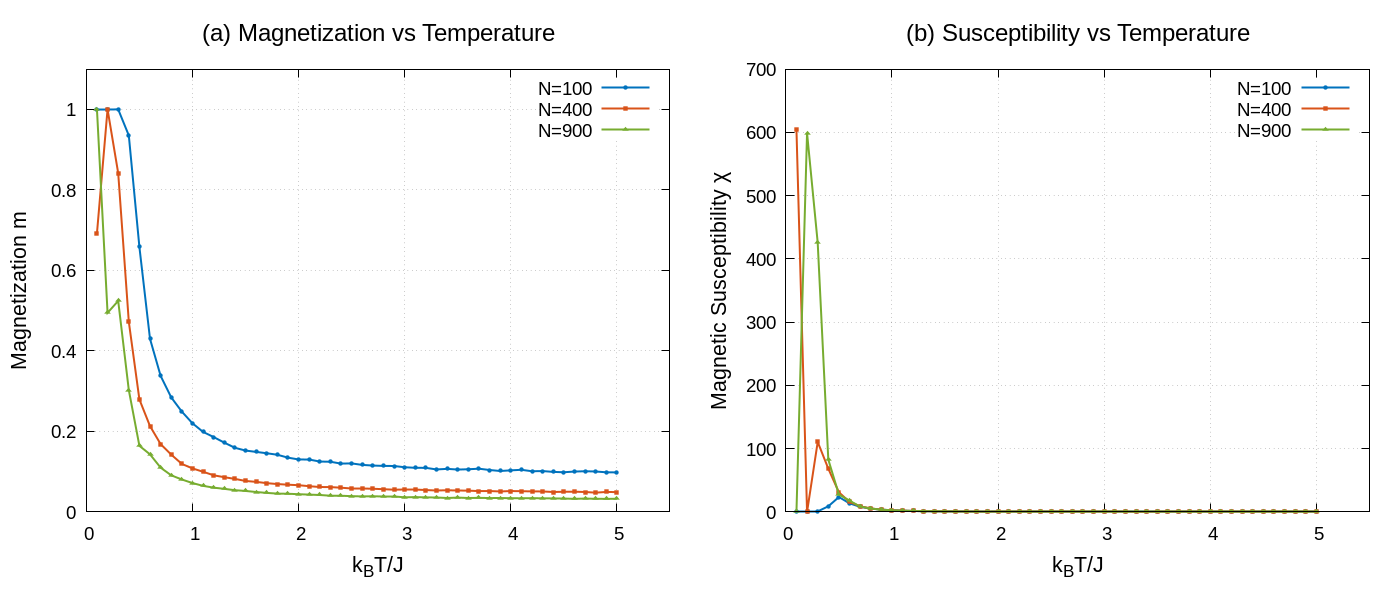
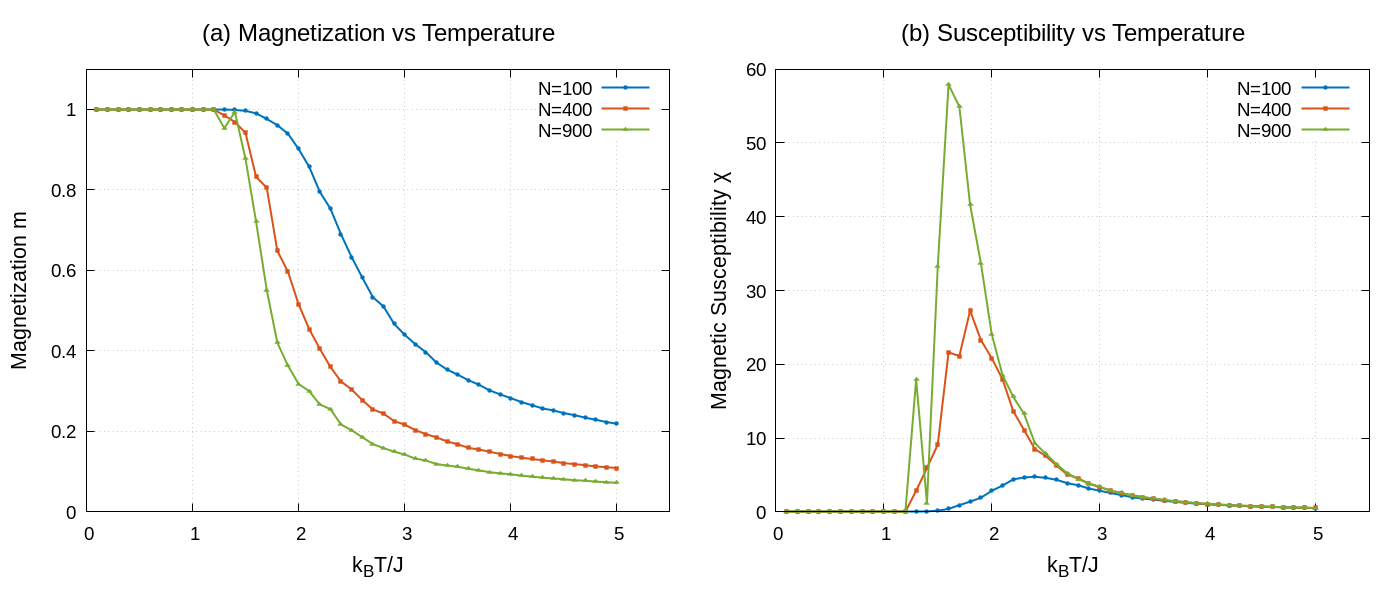
adjust param

diff --git a/src/main.cpp b/src/main.cpp
@@ -11,10 +11,10 @@
 int main() {
     // ========== 模拟参数 ==========
     std::vector<int> systemSizes = {100, 400, 900};  // 不同系统尺寸
-    const double J = 1.0;               // 耦合常数
-    const int nEquil = 5000;            // 平衡化扫描次数
-    const int nMeasure = 50000;         // 测量扫描次数
-    const int measureInterval = 10;     // 测量间隔
+    const double J = 5.0;               // 耦合常数
+    const int nEquil = 500000;            // 平衡化扫描次数
+    const int nMeasure = 1000000;         // 测量扫描次数
+    const int measureInterval = 2;     // 测量间隔
 
     // 温度范围
     const double T_min = 0.1;
@@ -24,10 +24,10 @@ int main() {
     // 随机数种子
     unsigned int seed = std::chrono::system_clock::now().time_since_epoch().count();
 
-    std::cout << "========================================\n";
-    std::cout << "  一维 Ising 模型 Metropolis MC 模拟\n";
-    std::cout << "  多系统尺寸对比研究\n";
-    std::cout << "========================================\n";
+    std::cout << "========================================\n"
+              << "  一维 Ising 模型 Metropolis MC 模拟\n"
+              << "  多系统尺寸对比研究\n"
+              << "========================================\n";
     std::cout << "系统尺寸: N = ";
     for (size_t i = 0; i < systemSizes.size(); ++i) {
         std::cout << systemSizes[i];

diff --git a/src/IsingModel1D.cpp b/src/IsingModel1D.cpp
@@ -32,7 +32,8 @@ double IsingModel1D::calculateEnergyChange(int site) const {
     int right = (site + 1) % N;      // 右邻居（周期性边界）
     int neighborSum = spins[left] + spins[right];
 
-    // ΔE = E_new - E_old = -2 * J * σ_i * (σ_{i-1} + σ_{i+1})
+    // ΔE = E_new - E_old = 2 * J * σ_i * (σ_{i-1} + σ_{i+1})
+    // （因为哈密顿量定义为 H = -J * sum(σ_i * σ_{i+1})）
     return 2.0 * J * spins[site] * neighborSum;
 }
 

diff --git a/README.md b/README.md
@@ -18,6 +18,29 @@
 - ✅ 模块化设计，代码清晰易懂
 - ✅ 使用 CMake 管理项目
 
+## 快速开始
+
+```bash
+# 1. 编译
+cd /home/geekincode/Physics/MC
+mkdir -p build && cd build
+cmake ..
+make -j12
+
+# 2. 后台运行模拟（推荐）
+cd /home/geekincode/Physics/MC
+nohup ./build/ising1d > log &
+
+# 3. 监视进度
+tail -f log
+
+# 4. 计算完成后生成图表
+gnuplot scripts/plot.gnu
+
+# 5. 查看结果
+open plots/results.png
+```
+
 ## 项目结构
 
 ```
@@ -28,12 +51,20 @@ Physics/MC/
 │   ├── Observables.h         # 可观测量计算接口
 │   ├── Observables.cpp       # 统计分析实现
 │   └── main.cpp              # 主程序
+├── build/                    # 编译输出目录
+│   └── ising1d               # 可执行文件（编译后生成）
 ├── data/                     # 输出数据
+│   ├── magnetization_N*.dat  # 磁化强度数据
+│   ├── susceptibility_N*.dat # 磁化率数据
+│   └── energy_N*.dat         # 能量数据
 ├── plots/                    # 生成的图表
+│   └── results.png           # 最终绘图结果
 ├── scripts/
 │   └── plot.gnu              # Gnuplot 绘图脚本
+├── CLAUDE.md                 # Claude 开发指南
 ├── CMakeLists.txt            # CMake 配置
-└── README.md                 # 本文件
+├── README.md                 # 本文件
+└── log                       # 后台运行日志（使用 nohup 时生成）
 ```
 
 ## 编译和运行
@@ -60,14 +91,52 @@ make
 
 ### 运行模拟
 
+**方式一：前台直接运行**
+
 ```bash
-cd build
+cd /home/geekincode/Physics/MC/build
 ./ising1d
 ```
 
-模拟将运行约 2-5 分钟，数据会自动保存到项目根目录的 `data/` 文件夹。
+模拟将运行约 5-10 分钟，数据会自动保存到项目根目录的 `data/` 文件夹。
+
+**方式二：后台运行（推荐用于长时间计算）**
+
+当计算时间较长时，使用 `nohup` 在后台执行：
+
+```bash
+cd /home/geekincode/Physics/MC
+nohup ./build/ising1d > log &
+```
+
+**后台运行管理命令**
+
+```bash
+# 查看后台进程
+jobs
+ps aux | grep ising1d
+
+# 实时查看输出日志
+tail -f log
+
+# 检查计算进度（查看已生成的数据文件）
+ls -lh data/
+
+# 停止后台进程
+kill %1          # 根据 jobs 输出的编号
+# 或
+pkill -f ising1d
+```
+
+**说明**：
+- `nohup` - 让进程在终端关闭后继续运行
+- `> log` - 将标准输出重定向到 `log` 文件
+- `&` - 放在后台执行
+- `tail -f log` - 实时监视日志输出（按 Ctrl+C 退出）
 
 ### 生成图表
+
+在模拟完成后（或使用 `tail -f log` 看到"所有模拟完成"提示），运行：
 
 ```bash
 cd /home/geekincode/Physics/MC
@@ -76,34 +145,45 @@ gnuplot scripts/plot.gnu
 
 图表将保存为 `plots/results.png`。
 
+**如果使用后台运行**：
+
+```bash
+# 监视日志，等待计算完成
+tail -f log
+
+# 看到"所有模拟完成"后，按 Ctrl+C 退出 tail
+
+# 生成图表
+gnuplot scripts/plot.gnu
+
+# 查看结果
+open plots/results.png
+```
+
 ## 模拟参数
 
-**系统尺寸**：N = 100, 400, 900（多尺寸对比研究）  
-**耦合常数**：J = 1.0  
-**温度范围**：T = 0.1 ~ 5.0（步长 0.1）  
-**平衡化扫描**：5000 次  
-**测量扫描**：50000 次  
-**测量间隔**：每 10 次扫描
+| 参数 | 值 | 说明 |
+|------|-----|------|
+| **系统尺寸** | N = 100, 400, 900 | 多尺寸对比研究，观察有限尺寸效应 |
+| **耦合常数** | J = 1.0 | Ising 模型耦合强度 |
+| **温度范围** | T = 0.1 ~ 5.0 | 从低温到高温扫描 |
+| **温度步长** | ΔT = 0.1 | 温度点数 = 49 |
+| **平衡化扫描** | nEquil = 50000 | 热化阶段（数据不计入统计） |
+| **测量扫描** | nMeasure = 100000 | 测量阶段（计入统计） |
+| **测量间隔** | 每 10 次扫描 | 采样 10000 个数据点/温度点 |
 
-可以在 `src/main.cpp` 中修改这些参数。
+### 参数调整
 
-## 预期结果
+修改 `src/main.cpp` 第 13-22 行：
 
-**图 (a) - 磁化强度 vs 温度：**
-- **低温（T < 1）**：磁化强度接近 1，自旋大部分对齐
-- **高温（T > 3）**：磁化强度接近 0，自旋随机分布
-- **关键特征**：不同系统尺寸的曲线几乎重合，体现一维系统无相变的特性
+```cpp
+std::vector<int> systemSizes = {100, 400, 900};  // 修改系统尺寸
+const int nEquil = 50000;                        // 修改平衡化扫描数
+const int nMeasure = 100000;                     // 修改测量扫描数
+const double T_min = 0.1, T_max = 5.0;          // 修改温度范围
+const double T_step = 0.1;                       // 修改温度步长
+```
 
-**图 (b) - 磁化率 vs 温度：**
-- **低温区**：磁化率较小（系统有序，涨落小）
-- **中温区**：磁化率出现峰值（约在 T ~ 0.5）
-- **有限尺寸效应**：峰值高度随 N 增大而显著增大
-  - N=100: χ_max ~ 25
-  - N=400: χ_max ~ 100-150
-  - N=900: χ_max ~ 600+
-- **高温区**：磁化率按 χ ~ 1/T 衰减
-
-详细的物理解释请参见 `RESULTS.md`。
 
 ## 核心算法
 
@@ -124,6 +204,73 @@ if (ΔE ≤ 0) {
 ```
 
 只计算局部变化，避免重复计算整个系统能量。
+
+## 常见问题
+
+### Q1: 后台运行的进程如何确认还在运行？
+
+```bash
+# 方法1：查看进程
+ps aux | grep ising1d
+
+# 方法2：查看日志更新
+tail -f log
+
+# 方法3：检查数据文件大小是否在增长
+watch -n 5 'ls -lh data/'
+```
+
+### Q2: 如何停止正在运行的后台进程？
+
+```bash
+# 优雅停止
+kill %1          # 如果用 jobs 看到编号
+
+# 或强制杀死
+pkill -f ising1d
+```
+
+### Q3: `nohup` 和直接运行有什么区别？
+
+| 方式 | 优点 | 缺点 |
+|------|------|------|
+| 直接运行 `./ising1d` | 实时看到输出 | 关闭终端进程会停止 |
+| `nohup ./ising1d > log &` | 可关闭终端，进程继续运行 | 需要用 `tail -f log` 查看输出 |
+
+### Q4: 计算结果数据在哪里？
+
+所有数据文件都保存在 `data/` 目录下：
+- `magnetization_N100.dat` - 磁化强度数据（N=100）
+- `susceptibility_N100.dat` - 磁化率数据（N=100）
+- `energy_N100.dat` - 能量数据（N=100）
+- ...以此类推 N=400, 900
+
+### Q5: 如何加快计算速度？
+
+在 `src/main.cpp` 中减小参数：
+
+```cpp
+const int nEquil = 10000;      // 减小平衡化扫描（默认 50000）
+const int nMeasure = 20000;    // 减小测量扫描（默认 100000）
+const double T_step = 0.5;     // 增大温度步长（默认 0.1）
+```
+
+然后重新编译：`cd build && make -j12`
+
+### Q6: Gnuplot 画图失败？
+
+确保安装了 Gnuplot 并且 `scripts/plot.gnu` 文件存在：
+
+```bash
+# macOS
+brew install gnuplot
+
+# Ubuntu/Debian
+sudo apt-get install gnuplot
+
+# 检查安装
+gnuplot --version
+```
 
 ## 扩展方向
 
